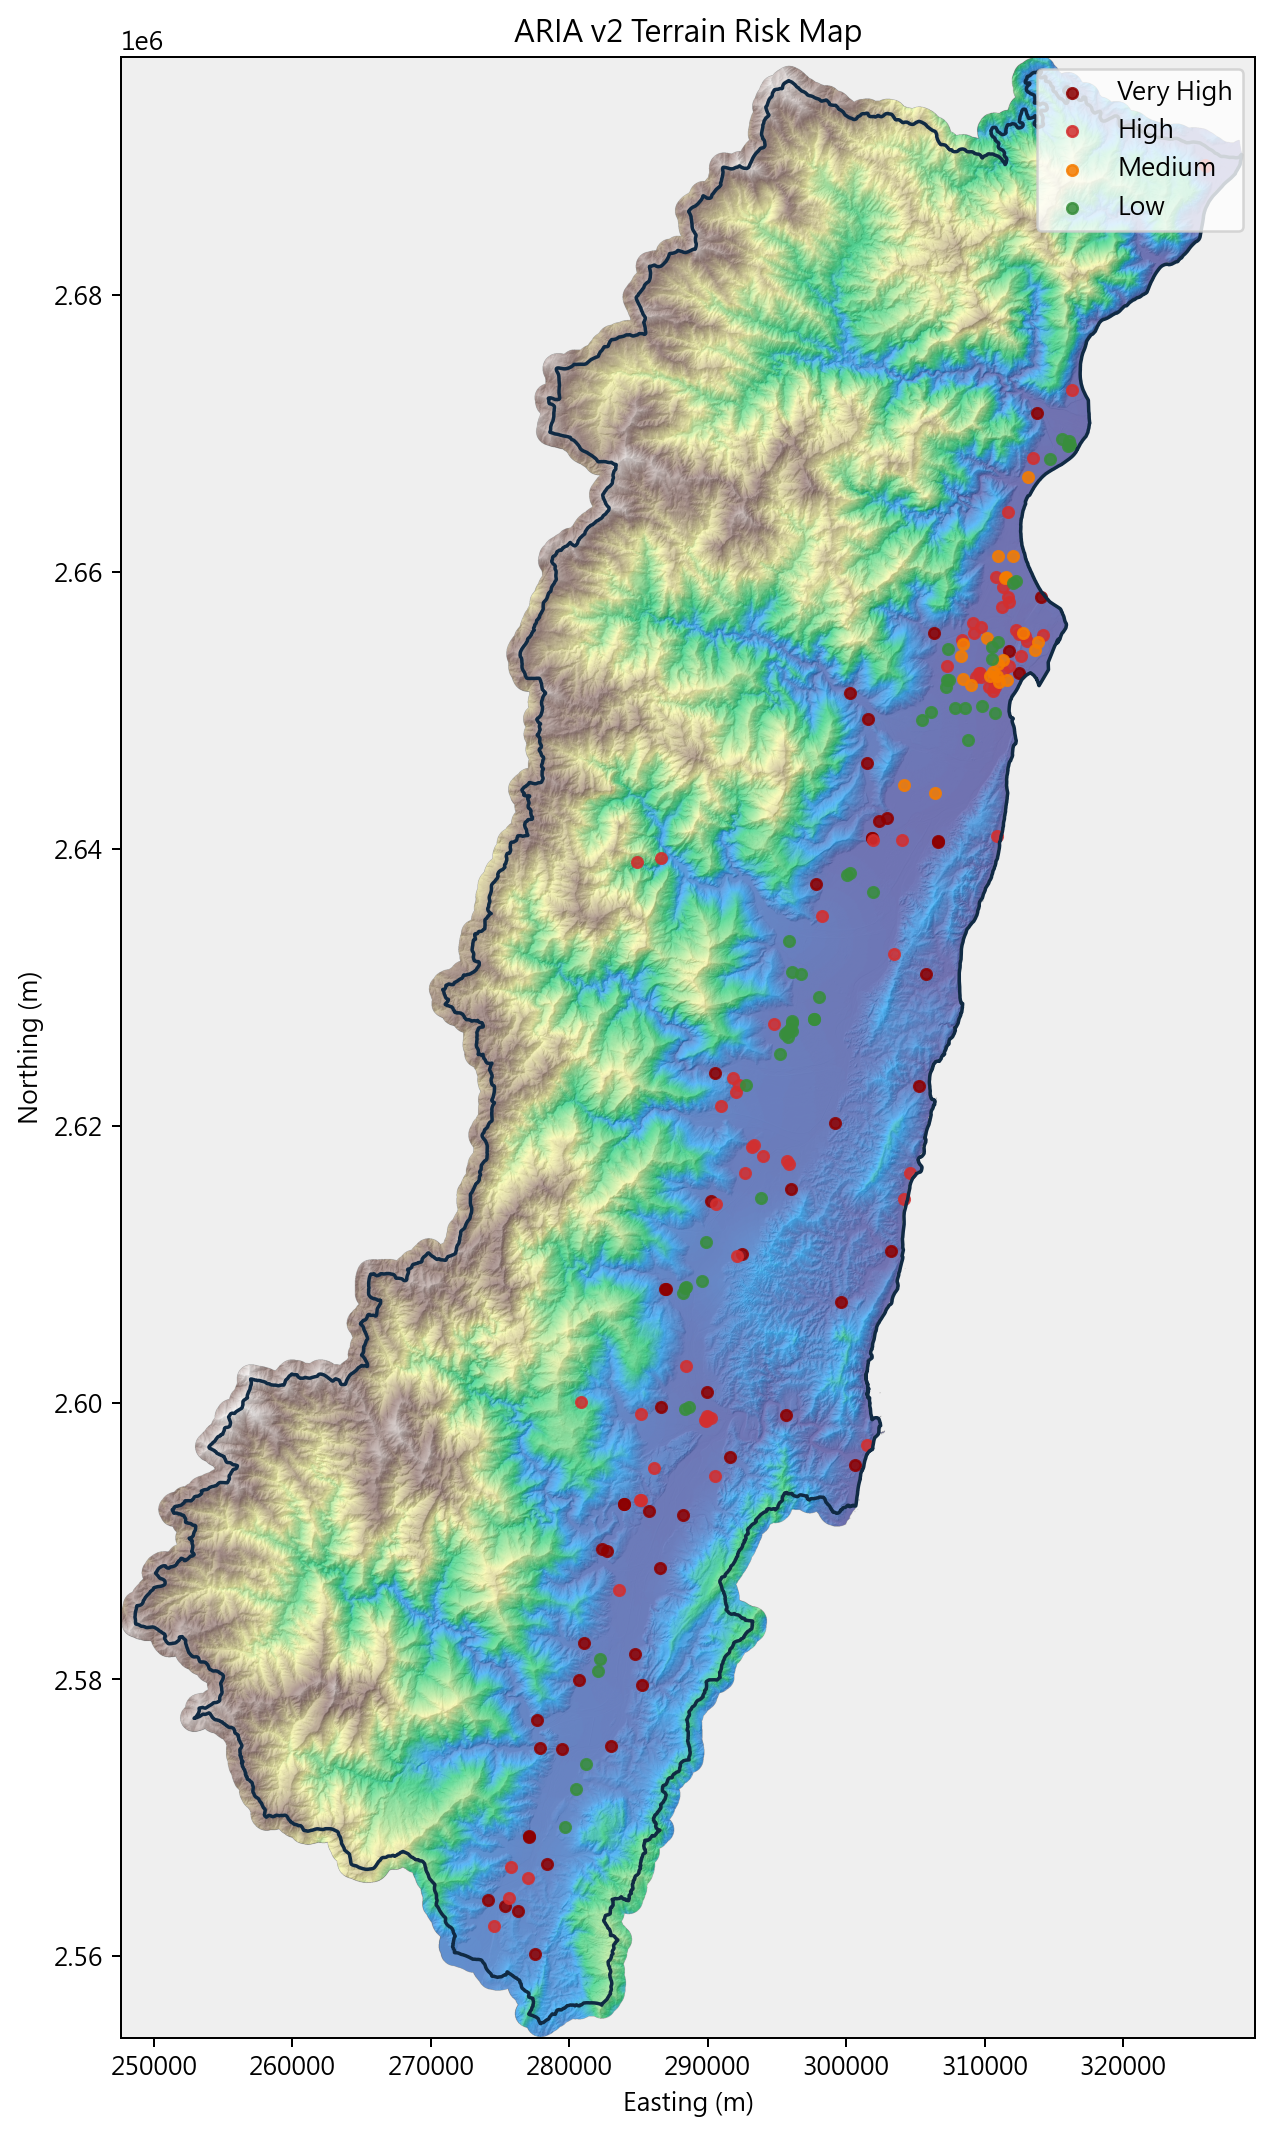
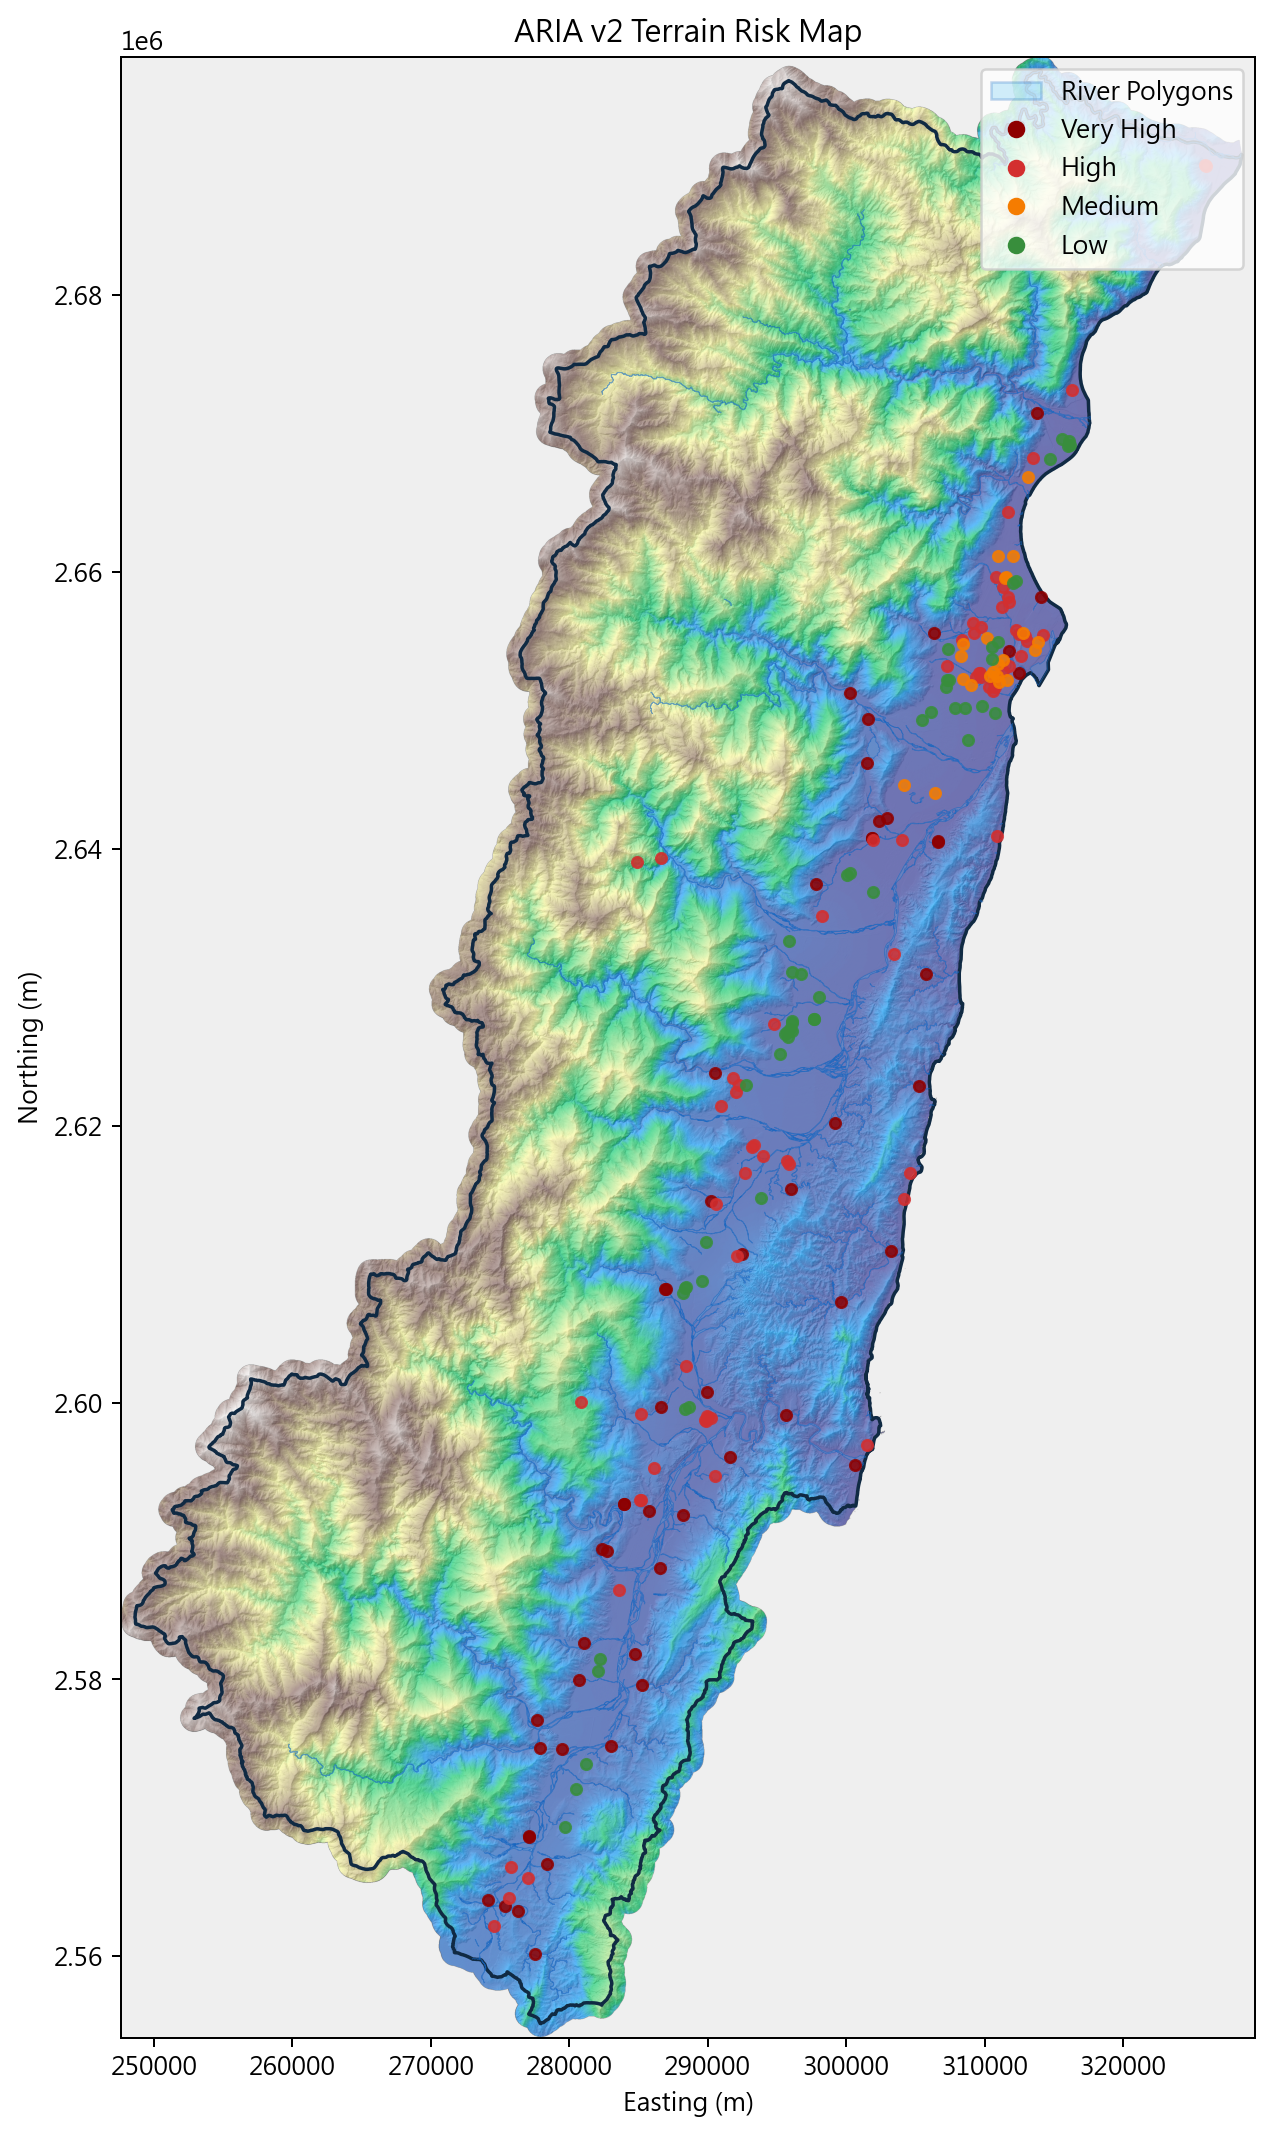
Improve Homework 4 visual outputs

diff --git a/scripts/aria_v2_pipeline.py b/scripts/aria_v2_pipeline.py
@@ -24,6 +24,8 @@ import matplotlib.pyplot as plt
 import numpy as np
 import pandas as pd
 from matplotlib.colors import LightSource
+from matplotlib.lines import Line2D
+from matplotlib.patches import Patch
 from osgeo import gdal, ogr, osr
 
 gdal.UseExceptions()
@@ -466,6 +468,7 @@ def create_terrain_map(
     output_path: Path,
     extent: tuple[float, float, float, float],
     county_boundary: gpd.GeoDataFrame,
+    rivers_in_county: gpd.GeoDataFrame,
     shelters: gpd.GeoDataFrame,
     elevation_masked: np.ndarray,
 ) -> None:
@@ -479,6 +482,8 @@ def create_terrain_map(
     fig, ax = plt.subplots(figsize=(12, 12))
     ax.imshow(display, extent=extent, origin="upper", cmap="terrain", alpha=0.95)
     ax.imshow(shaded, extent=extent, origin="upper", cmap="gray", alpha=0.35)
+    rivers_in_county.plot(ax=ax, color="#4fc3f7", alpha=0.18, linewidth=0, zorder=2)
+    rivers_in_county.boundary.plot(ax=ax, color="#1565c0", linewidth=0.35, alpha=0.55, zorder=3)
     county_boundary.boundary.plot(ax=ax, color="#102a43", linewidth=1.4)
     for level in RISK_ORDER:
         subset = shelters.loc[shelters["risk_level"] == level]
@@ -488,20 +493,27 @@ def create_terrain_map(
             ax=ax,
             markersize=18,
             color=RISK_COLORS[level],
-            label=level.replace("_", " ").title(),
             alpha=0.85,
+            zorder=4,
         )
     ax.set_title("ARIA v2 Terrain Risk Map")
     ax.set_xlabel("Easting (m)")
     ax.set_ylabel("Northing (m)")
-    ax.legend(loc="upper right")
+    map_handles = [
+        Patch(facecolor="#4fc3f7", edgecolor="#1565c0", alpha=0.25, label="River Polygons"),
+        Line2D([0], [0], marker="o", linestyle="", color=RISK_COLORS["very_high"], markersize=6, label="Very High"),
+        Line2D([0], [0], marker="o", linestyle="", color=RISK_COLORS["high"], markersize=6, label="High"),
+        Line2D([0], [0], marker="o", linestyle="", color=RISK_COLORS["medium"], markersize=6, label="Medium"),
+        Line2D([0], [0], marker="o", linestyle="", color=RISK_COLORS["low"], markersize=6, label="Low"),
+    ]
+    ax.legend(handles=map_handles, loc="upper right")
     fig.tight_layout()
     output_path.parent.mkdir(parents=True, exist_ok=True)
     fig.savefig(output_path, dpi=180, bbox_inches="tight")
     plt.close(fig)
 
 
-def create_top10_scatter(output_path: Path, shelters: gpd.GeoDataFrame) -> None:
+def create_top10_scatter(output_path: Path, shelters: gpd.GeoDataFrame, slope_threshold: float) -> None:
     rank = {"very_high": 0, "high": 1, "medium": 2, "low": 3}
     top10 = shelters.copy()
     top10["risk_rank"] = top10["risk_level"].map(rank)
@@ -509,25 +521,41 @@ def create_top10_scatter(output_path: Path, shelters: gpd.GeoDataFrame) -> None:
         by=["risk_rank", "max_slope", "distance_to_river_m"],
         ascending=[True, False, True],
     ).head(10)
-    fig, ax = plt.subplots(figsize=(10, 7))
-    for level in RISK_ORDER:
-        subset = top10.loc[top10["risk_level"] == level]
-        if subset.empty:
-            continue
-        ax.scatter(
-            subset["mean_elevation"],
-            subset["max_slope"],
-            color=RISK_COLORS[level],
-            s=55,
-            label=level.replace("_", " ").title(),
+    top10 = top10.copy()
+    top10["display_name"] = top10["name"].str.slice(0, 28)
+    fig, ax = plt.subplots(figsize=(12, 7.5))
+    bars = ax.barh(
+        top10["display_name"],
+        top10["max_slope"],
+        color=top10["risk_level"].map(RISK_COLORS),
+        alpha=0.88,
+    )
+    for bar, (_, row) in zip(bars, top10.iterrows()):
+        elev_text = "nan" if pd.isna(row["mean_elevation"]) else f"{row['mean_elevation']:.0f}"
+        river_text = "nan" if pd.isna(row["distance_to_river_m"]) else f"{row['distance_to_river_m']:.0f}"
+        label = f"elev {elev_text}m | river {river_text}m"
+        ax.text(
+            bar.get_width() + 0.8,
+            bar.get_y() + bar.get_height() / 2,
+            label,
+            va="center",
+            fontsize=8,
+            alpha=0.85,
         )
-    for _, row in top10.iterrows():
-        ax.annotate(row["name"][:14], (row["mean_elevation"], row["max_slope"]), fontsize=8, alpha=0.8)
-    ax.axhline(30, color="#455a64", linestyle="--", linewidth=1.0, label="Slope Threshold")
+    ax.axvline(slope_threshold, color="#455a64", linestyle="--", linewidth=1.0, label="Slope Threshold")
     ax.set_title("Top 10 Terrain Risk Shelters")
-    ax.set_xlabel("Mean Elevation (m)")
-    ax.set_ylabel("Max Slope (degrees)")
-    ax.legend(loc="upper left")
+    ax.set_xlabel("Max Slope (degrees)")
+    ax.set_ylabel("Shelter")
+    ax.invert_yaxis()
+    ax.set_xlim(0, max(top10["max_slope"].max() * 1.18, slope_threshold * 1.15))
+    bar_handles = [
+        Line2D([0], [0], marker="s", linestyle="", color=RISK_COLORS["very_high"], markersize=8, label="Very High"),
+        Line2D([0], [0], marker="s", linestyle="", color=RISK_COLORS["high"], markersize=8, label="High"),
+        Line2D([0], [0], marker="s", linestyle="", color=RISK_COLORS["medium"], markersize=8, label="Medium"),
+        Line2D([0], [0], marker="s", linestyle="", color=RISK_COLORS["low"], markersize=8, label="Low"),
+        Line2D([0], [0], color="#455a64", linestyle="--", linewidth=1.0, label="Slope Threshold"),
+    ]
+    ax.legend(handles=bar_handles, loc="lower right")
     fig.tight_layout()
     output_path.parent.mkdir(parents=True, exist_ok=True)
     fig.savefig(output_path, dpi=180, bbox_inches="tight")
@@ -662,10 +690,10 @@ def run_pipeline(config: ARIAV2Config) -> dict[str, Path]:
         max_y,
     )
     map_png_path = config.output_dir / "terrain_risk_map.png"
-    create_terrain_map(map_png_path, extent, county_boundary, target_shelters, masked_elevation)
+    create_terrain_map(map_png_path, extent, county_boundary, rivers_in_county, target_shelters, masked_elevation)
 
     scatter_png_path = config.output_dir / "terrain_risk_top10_scatter.png"
-    create_top10_scatter(scatter_png_path, target_shelters)
+    create_top10_scatter(scatter_png_path, target_shelters, config.slope_threshold)
 
     summary_path = config.output_dir / "terrain_run_summary.json"
     write_json(

diff --git a/scripts/build_aria_v2_notebook.py b/scripts/build_aria_v2_notebook.py
@@ -86,6 +86,8 @@ import rioxarray
 import xarray as xr
 from dotenv import load_dotenv
 from matplotlib.colors import LightSource
+from matplotlib.lines import Line2D
+from matplotlib.patches import Patch
 from rasterstats import zonal_stats
 from shapely.geometry import mapping
 
@@ -414,7 +416,7 @@ audit_df.head(10)
             """
 ## Captain's Log 7
 
-Create the final hillshade map and the Top 10 high-risk scatter plot.
+Create the final hillshade map with river polygons and a ranked Top 10 chart that stays readable even when shelters cluster tightly.
 """
         ),
         code_cell(
@@ -431,16 +433,25 @@ risk_colors = {
 fig, ax = plt.subplots(figsize=(12, 12))
 ax.imshow(elevation, extent=extent, origin="upper", cmap="terrain", alpha=0.95)
 ax.imshow(hillshade, extent=extent, origin="upper", cmap="gray", alpha=0.35)
+rivers_in_county.plot(ax=ax, color="#4fc3f7", alpha=0.18, linewidth=0, zorder=2)
+rivers_in_county.boundary.plot(ax=ax, color="#1565c0", linewidth=0.35, alpha=0.55, zorder=3)
 county_boundary.boundary.plot(ax=ax, color="#102a43", linewidth=1.3)
 for level in ["very_high", "high", "medium", "low"]:
     subset = target_shelters[target_shelters["risk_level"] == level]
     if subset.empty:
         continue
-    subset.plot(ax=ax, markersize=18, color=risk_colors[level], label=level.replace("_", " ").title(), alpha=0.85)
+    subset.plot(ax=ax, markersize=20, color=risk_colors[level], alpha=0.9, zorder=4)
 ax.set_title("ARIA v2 Terrain Risk Map")
 ax.set_xlabel("Easting (m)")
 ax.set_ylabel("Northing (m)")
-ax.legend(loc="upper right")
+map_handles = [
+    Patch(facecolor="#4fc3f7", edgecolor="#1565c0", alpha=0.25, label="River Polygons"),
+    Line2D([0], [0], marker="o", linestyle="", color=risk_colors["very_high"], markersize=6, label="Very High"),
+    Line2D([0], [0], marker="o", linestyle="", color=risk_colors["high"], markersize=6, label="High"),
+    Line2D([0], [0], marker="o", linestyle="", color=risk_colors["medium"], markersize=6, label="Medium"),
+    Line2D([0], [0], marker="o", linestyle="", color=risk_colors["low"], markersize=6, label="Low"),
+]
+ax.legend(handles=map_handles, loc="upper right")
 map_path = OUTPUT_DIR / "terrain_risk_map.png"
 fig.tight_layout()
 fig.savefig(map_path, dpi=180, bbox_inches="tight")
@@ -448,19 +459,40 @@ plt.show()
 plt.close(fig)
 
 top10 = target_shelters.sort_values(["risk_rank", "max_slope", "distance_to_river_m"], ascending=[True, False, True]).head(10)
-fig, ax = plt.subplots(figsize=(10, 7))
-for level in ["very_high", "high", "medium", "low"]:
-    subset = top10[top10["risk_level"] == level]
-    if subset.empty:
-        continue
-    ax.scatter(subset["mean_elevation"], subset["max_slope"], color=risk_colors[level], s=55, label=level.replace("_", " ").title())
-for _, row in top10.iterrows():
-    ax.annotate(row["name"][:14], (row["mean_elevation"], row["max_slope"]), fontsize=8)
-ax.axhline(SLOPE_THRESHOLD, color="#455a64", linestyle="--", linewidth=1.0, label="Slope Threshold")
+top10 = top10.copy()
+top10["display_name"] = top10["name"].str.slice(0, 28)
+fig, ax = plt.subplots(figsize=(12, 7.5))
+bars = ax.barh(
+    top10["display_name"],
+    top10["max_slope"],
+    color=top10["risk_level"].map(risk_colors),
+    alpha=0.88,
+)
+for bar, (_, row) in zip(bars, top10.iterrows()):
+    elev_text = "nan" if pd.isna(row["mean_elevation"]) else f"{row['mean_elevation']:.0f}"
+    river_text = "nan" if pd.isna(row["distance_to_river_m"]) else f"{row['distance_to_river_m']:.0f}"
+    label = f"elev {elev_text}m | river {river_text}m"
+    ax.text(
+        bar.get_width() + 0.8,
+        bar.get_y() + bar.get_height() / 2,
+        label,
+        va="center",
+        fontsize=8,
+    )
+ax.axvline(SLOPE_THRESHOLD, color="#455a64", linestyle="--", linewidth=1.0, label="Slope Threshold")
 ax.set_title("Top 10 Terrain Risk Shelters")
-ax.set_xlabel("Mean Elevation (m)")
-ax.set_ylabel("Max Slope (degrees)")
-ax.legend(loc="upper left")
+ax.set_xlabel("Max Slope (degrees)")
+ax.set_ylabel("Shelter")
+ax.invert_yaxis()
+ax.set_xlim(0, max(top10["max_slope"].max() * 1.18, SLOPE_THRESHOLD * 1.15))
+bar_handles = [
+    Line2D([0], [0], marker="s", linestyle="", color=risk_colors["very_high"], markersize=8, label="Very High"),
+    Line2D([0], [0], marker="s", linestyle="", color=risk_colors["high"], markersize=8, label="High"),
+    Line2D([0], [0], marker="s", linestyle="", color=risk_colors["medium"], markersize=8, label="Medium"),
+    Line2D([0], [0], marker="s", linestyle="", color=risk_colors["low"], markersize=8, label="Low"),
+    Line2D([0], [0], color="#455a64", linestyle="--", linewidth=1.0, label="Slope Threshold"),
+]
+ax.legend(handles=bar_handles, loc="lower right")
 scatter_path = OUTPUT_DIR / "terrain_risk_top10_scatter.png"
 fig.tight_layout()
 fig.savefig(scatter_path, dpi=180, bbox_inches="tight")

diff --git a/README.md b/README.md
@@ -73,7 +73,7 @@ The notebook writes outputs to:
 
 - `/content/drive/MyDrive/Colab Notebooks/outputs/homework4/terrain_risk_audit.json`
 - `/content/drive/MyDrive/Colab Notebooks/outputs/homework4/terrain_risk_map.png`
-- `/content/drive/MyDrive/Colab Notebooks/outputs/homework4/terrain_risk_top10_scatter.png`
+- `/content/drive/MyDrive/Colab Notebooks/outputs/homework4/terrain_risk_top10_scatter.png` (`Top 10` ranked chart)
 
 ## Local Helper Pipeline
 
@@ -90,7 +90,7 @@ Local outputs are written to:
 
 - `outputs/aria_v2/terrain_risk_audit.json`
 - `outputs/aria_v2/terrain_risk_map.png`
-- `outputs/aria_v2/terrain_risk_top10_scatter.png`
+- `outputs/aria_v2/terrain_risk_top10_scatter.png` (`Top 10` ranked chart)
 - `outputs/aria_v2/terrain_run_summary.json`
 
 ## AI Diagnostic Log
@@ -99,6 +99,7 @@ Local outputs are written to:
 - `Hualien_dem_merge.tif` does not carry CRS metadata, so both the notebook and the local workflow explicitly repair it to `EPSG:3826` before clipping.
 - `Hualien_dem_merge.vrt` points to raster tiles with a broken relative path in this repo layout, so it is treated as a fallback reference only, not the primary analysis input.
 - The county `+1000m` clip can slightly exceed a county-specific DEM bounds, so the notebook clamps the window clip to the overlap before doing the exact polygon clip.
+- The final terrain map overlays river polygons, and the old scatter plot was replaced by a ranked horizontal chart because dense counties such as New Taipei compress too many points into the same region.
 - If zonal statistics return `NaN`, the first checks are CRS alignment and whether a shelter buffer falls outside raster coverage.
 - The slope calculation uses `np.gradient(..., 20)` so the pixel spacing matches the 20m DEM resolution.
 

diff --git a/submission/Homework-4/README.md b/submission/Homework-4/README.md
@@ -73,7 +73,7 @@ The notebook writes outputs to:
 
 - `/content/drive/MyDrive/Colab Notebooks/outputs/homework4/terrain_risk_audit.json`
 - `/content/drive/MyDrive/Colab Notebooks/outputs/homework4/terrain_risk_map.png`
-- `/content/drive/MyDrive/Colab Notebooks/outputs/homework4/terrain_risk_top10_scatter.png`
+- `/content/drive/MyDrive/Colab Notebooks/outputs/homework4/terrain_risk_top10_scatter.png` (`Top 10` ranked chart)
 
 ## Local Helper Pipeline
 
@@ -90,7 +90,7 @@ Local outputs are written to:
 
 - `outputs/aria_v2/terrain_risk_audit.json`
 - `outputs/aria_v2/terrain_risk_map.png`
-- `outputs/aria_v2/terrain_risk_top10_scatter.png`
+- `outputs/aria_v2/terrain_risk_top10_scatter.png` (`Top 10` ranked chart)
 - `outputs/aria_v2/terrain_run_summary.json`
 
 ## AI Diagnostic Log
@@ -99,6 +99,7 @@ Local outputs are written to:
 - `Hualien_dem_merge.tif` does not carry CRS metadata, so both the notebook and the local workflow explicitly repair it to `EPSG:3826` before clipping.
 - `Hualien_dem_merge.vrt` points to raster tiles with a broken relative path in this repo layout, so it is treated as a fallback reference only, not the primary analysis input.
 - The county `+1000m` clip can slightly exceed a county-specific DEM bounds, so the notebook clamps the window clip to the overlap before doing the exact polygon clip.
+- The final terrain map overlays river polygons, and the old scatter plot was replaced by a ranked horizontal chart because dense counties such as New Taipei compress too many points into the same region.
 - If zonal statistics return `NaN`, the first checks are CRS alignment and whether a shelter buffer falls outside raster coverage.
 - The slope calculation uses `np.gradient(..., 20)` so the pixel spacing matches the 20m DEM resolution.
 
